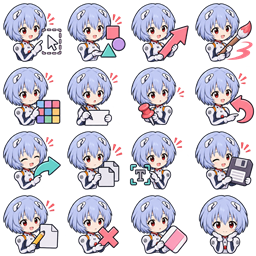
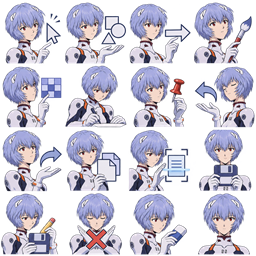
release: publish Snap-Lite v1.7.7

diff --git a/tests/test_build_scripts.py b/tests/test_build_scripts.py
@@ -4571,7 +4571,7 @@ class ReleaseVersionTest(unittest.TestCase):
         project(...) 在文件第 2 行。
         """
         cmake = (REPO_ROOT / "CMakeLists.txt").read_text(encoding="utf-8")
-        self.assertEqual(self.resolver.parse_base_version(cmake), "1.7.6")
+        self.assertEqual(self.resolver.parse_base_version(cmake), "1.7.7")
 
     def test_version_comparison_uses_components_not_prefixes(self) -> None:
         """版本比较必须按分量，不能只做字符串前缀比较。

diff --git a/.release/v1.7.7.md b/.release/v1.7.7.md
@@ -1,0 +1,8 @@
+# Snap-Lite v1.7.7
+
+调整多套 UI 主题图集的美术风格，使其更贴近对应作品的官方视觉表现。
+
+- 重绘魔女之旅、绫波丽、明日香、原神、绝区零、崩坏3和鸣潮的 4×4 工具图集。
+- 保留每个图格对应的工具动作、角色分配和主题切换设置。
+
+Windows 11 x64。

diff --git a/README.md b/README.md
@@ -114,5 +114,5 @@ python scripts/verify_generated_sources.py build
 发布版本号解析（纯函数，可单测）：
 
 ```powershell
-python scripts/resolve_release_version.py --base-version 1.7.6
+python scripts/resolve_release_version.py --base-version 1.7.7
 ```
